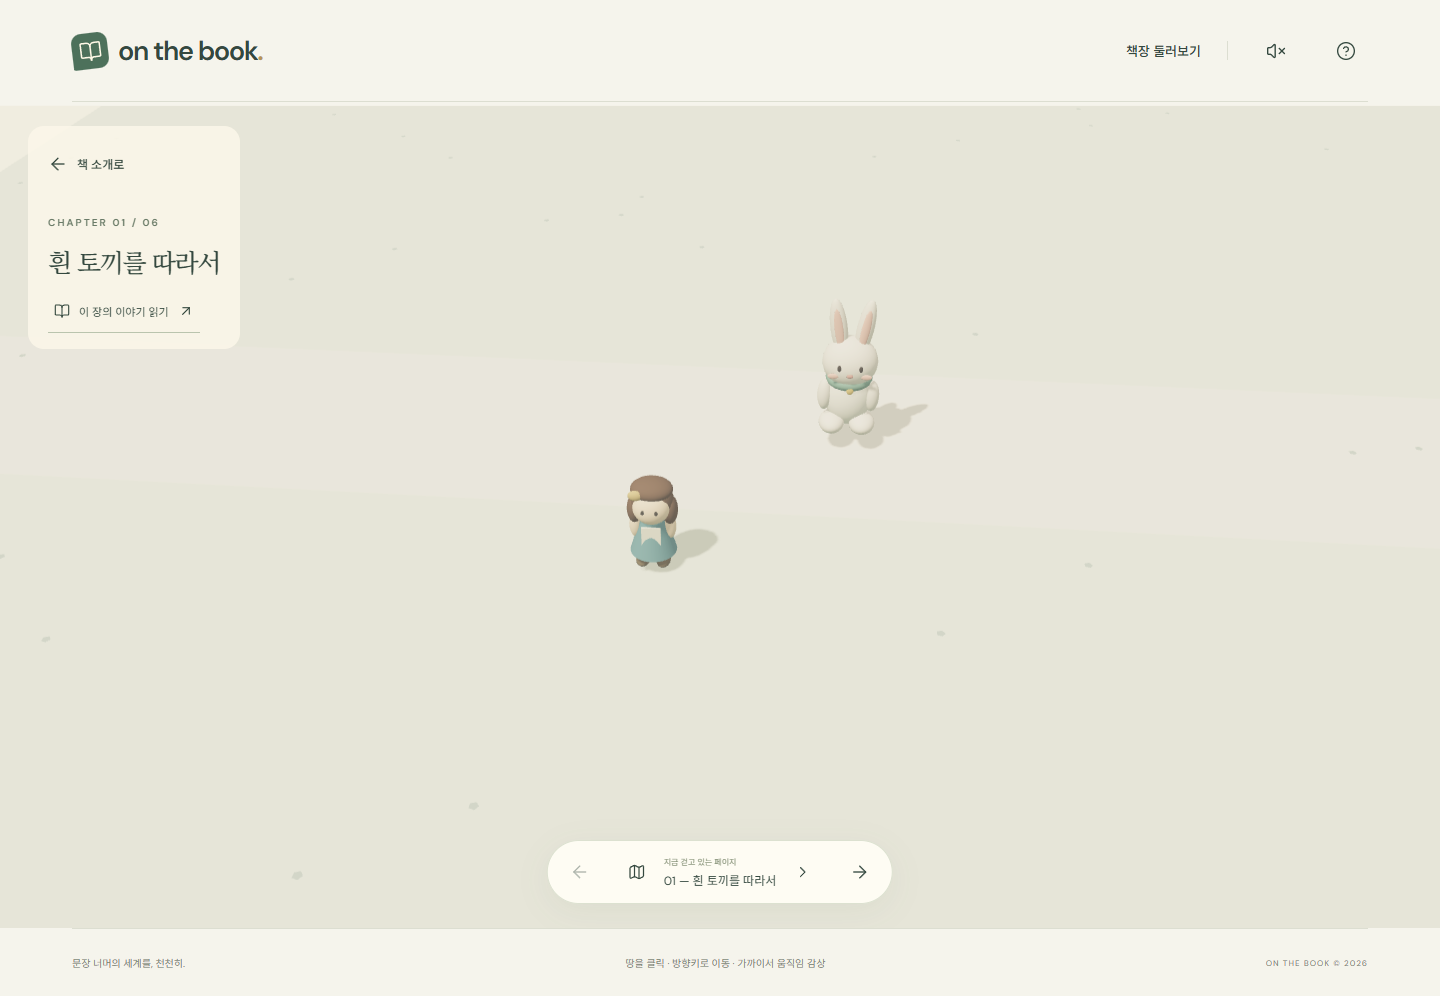
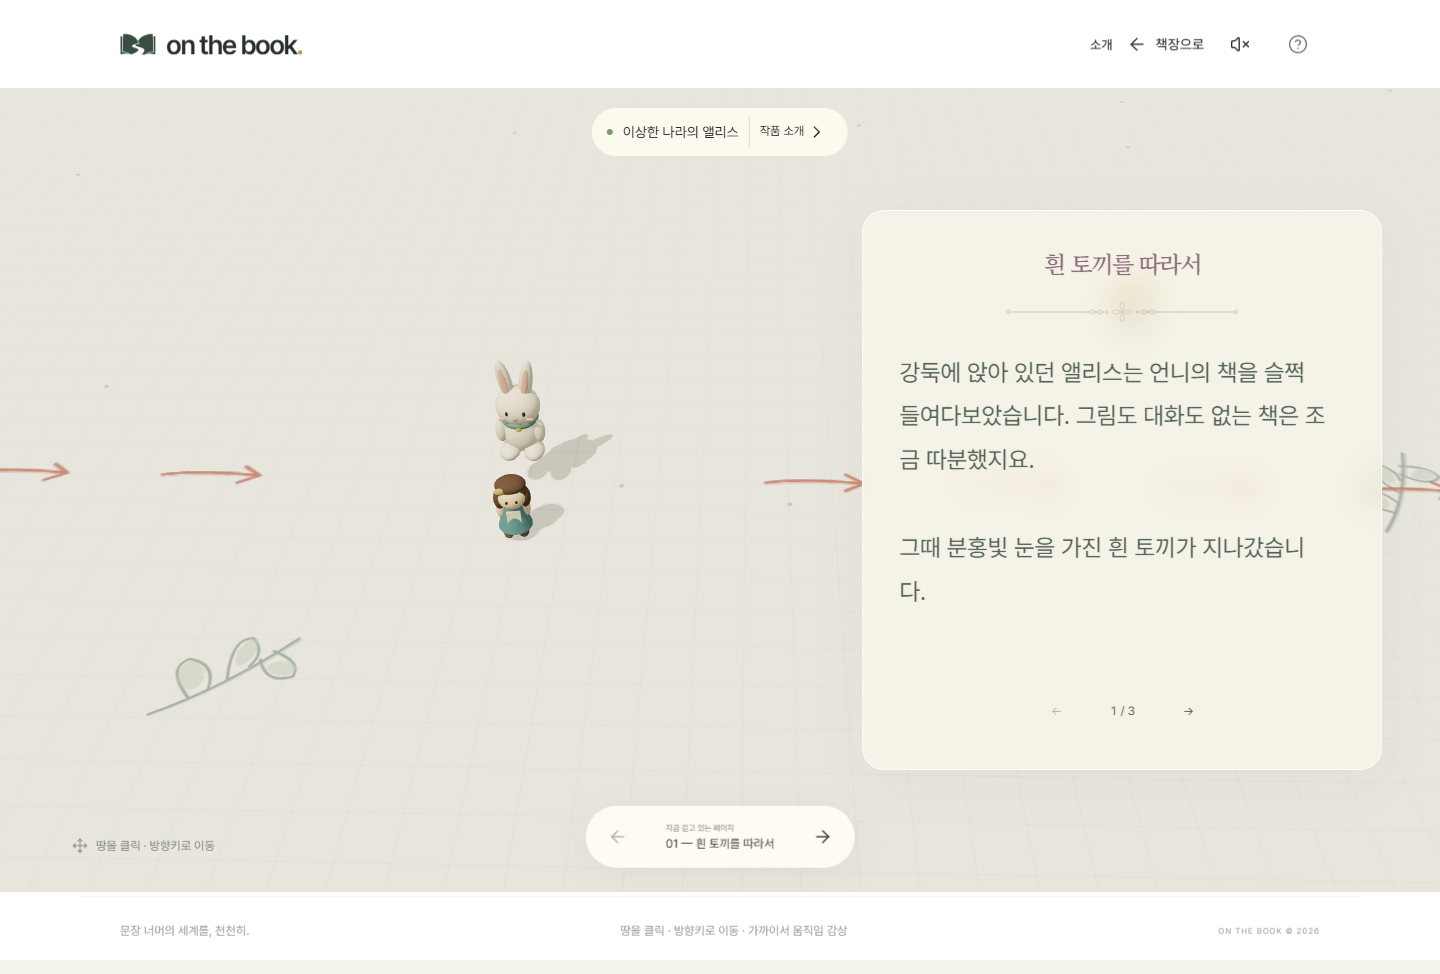
Document the detail pages and refresh the previews
README, the page description and the migration spec now describe the
card → detail → CTA → world flow and the four reader addresses. The
preview capture passes through the book detail, and four screenshots
show both detail pages on desktop and on a phone.

diff --git a/client/index.html b/client/index.html
@@ -4,7 +4,7 @@
     <meta charset="UTF-8" />
     <meta name="viewport" content="width=device-width,initial-scale=1" />
     <meta name="theme-color" content="#ffffff" />
-    <meta name="description" content="마음이 가는 책을 고르고 문장 너머의 세계를 만나보세요. 작품을 탐색하고 표지를 누르면 바로 3D 이야기 속으로 들어가는 On the Book 데모 서재." />
+    <meta name="description" content="마음이 가는 책을 고르고 문장 너머의 세계를 만나보세요. 작품과 장면을 살펴보고 원하는 곳에서 3D 이야기 속으로 들어가는 On the Book 데모 서재." />
     <link rel="icon" href="/brand/book-path-32.png" type="image/png" sizes="32x32" />
     <link rel="icon" href="/brand/book-path-favicon.svg" type="image/svg+xml" />
     <link rel="apple-touch-icon" href="/brand/book-path-180.png" />

diff --git a/README.md b/README.md
@@ -26,11 +26,11 @@ npm start
 
 ## 현재 경험과 관리 기능
 
-- 첫 화면은 상단 검색, 발견·전체 도서·이어 읽기 메뉴, 추천 배너, 도서 책장과 장면별 탐색으로 구성됩니다. [리디 만화](https://ridibooks.com/comics/ebook)의 검색·카테고리·여러 도서 코너와 [밀리의서재](https://www.millie.co.kr/)의 탐색 메뉴를 참고했습니다. 제목·작가 검색, 분류, 제목·출간연도 정렬을 지원하며 도서를 누르면 해당 작품의 3D 공간으로 바로 들어갑니다. 회원가입·로그인·알림 메뉴는 없습니다.
+- 첫 화면은 상단 검색, 발견·전체 도서·이어 읽기 메뉴, 추천 배너, 도서 책장과 장면별 탐색으로 구성됩니다. [리디 만화](https://ridibooks.com/comics/ebook)의 검색·카테고리·여러 도서 코너와 [밀리의서재](https://www.millie.co.kr/)의 탐색 메뉴를 참고했습니다. 제목·작가 검색, 분류, 제목·출간연도 정렬을 지원하며 도서를 누르면 작품 상세 페이지가 열리고, 그곳의 '이야기 속으로 들어가기' 버튼으로 3D 공간에 들어갑니다. 읽던 작품은 마지막에 머문 장면에서 이어 읽을 수 있습니다. 회원가입·로그인·알림 메뉴는 없습니다.
 - 기존 등록 도서만 표시하며 데모용 작품을 추가하지 않습니다. 공개 도서가 늘어나면 목록과 도서 수가 자동으로 확장됩니다. 발견 화면의 빈 도서 자리는 ‘새로운 이야기 준비 중’으로 표시되고 선택할 수 없습니다. 새 작품은 기본적으로 ‘문학’에 분류됩니다.
 - 표지·추천 배너의 표지·장면 썸네일은 이미지 없이 크기와 자리만 확보했습니다. 등록된 표지가 있어도 현재 시안에서는 표시하지 않습니다. 실제 책 정보는 그대로 유지되며 작품 소개 창도 빈 표지를 사용합니다.
-- 장면 목록은 가로로 넘겨 볼 수 있고, 선택한 장면의 3D 공간으로 바로 들어갑니다. 이전·다음 버튼, 터치 스크롤, 목록에 초점을 둔 상태에서 방향키·Home·End를 지원합니다.
-- **작품 소개**에서 원작 정보와 장면 목록을 확인합니다. **책장으로** 돌아오면 검색 조건과 위치가 유지되고 **이어 읽기**에서는 이 브라우저에서 방문한 작품을 볼 수 있습니다. 첫 진입 시 안내창은 자동으로 열리지 않으며 이용 방법 버튼으로 볼 수 있습니다.
+- 장면 목록은 가로로 넘겨 볼 수 있고, 장면을 누르면 첫 문단과 그 장면의 모델을 미리 보여 주는 장면 상세 페이지가 열립니다. '이 장면부터 걷기' 버튼으로 그 장면의 3D 공간에 들어갑니다. 이전·다음 버튼, 터치 스크롤, 목록에 초점을 둔 상태에서 방향키·Home·End를 지원합니다.
+- 작품 상세 페이지에서 원작 정보와 장면 목록을 확인하고, 3D 공간 안에서는 **작품 소개** 창으로 같은 정보를 봅니다. 주소 `?book=<책>`은 작품 상세, `?book=<책>&scene=<장면>`은 장면 상세, `?book=<책>&chapter=<장면>`은 3D 공간입니다. **책장으로** 돌아오면 검색 조건과 위치가 유지되고 **이어 읽기**에서는 이 브라우저에서 방문한 작품을 볼 수 있습니다. 첫 진입 시 안내창은 자동으로 열리지 않으며 이용 방법 버튼으로 볼 수 있습니다.
 - 트레일러는 아래쪽 **온더북 미리보기**에서 직접 열어 재생합니다. 미리보기 이미지는 표시하지 않으며 영상을 닫으면 재생을 멈춥니다.
 - 영상 원본은 `public/trailer.mp4`, 실제 웹 재생본은 `public/trailer-web.mp4`, 재생 전 이미지는 `public/trailer-poster.jpg`입니다. 원본을 교체하면 웹 재생본과 이미지도 함께 갱신해야 합니다.
 - 게임 요소 없이 넓은 공간을 자유롭게 이동합니다. 모델에 접근하면 애니메이션이 반복되고, 범위를 벗어나면 기본 자세로 돌아갑니다. 다시 접근하면 처음부터 재생됩니다.
@@ -42,7 +42,7 @@ npm start
 
 ## 확인 순서
 
-1. 사용자 화면에서 표지를 눌러 작품 속으로 들어간 뒤 땅을 누르거나 방향키로 이동합니다. 휴대폰에서는 방향 버튼도 사용할 수 있습니다.
+1. 사용자 화면에서 표지를 눌러 작품 상세를 열고 '이야기 속으로 들어가기'를 누른 뒤 땅을 누르거나 방향키로 이동합니다. 휴대폰에서는 방향 버튼도 사용할 수 있습니다.
 2. 모델 가까이에서 움직임을 보고, 멀어졌다가 다시 접근합니다. 오른쪽으로 계속 걸으면 다음 챕터로 이어집니다. 지도에서 원하는 챕터로 바로 이동할 수도 있습니다.
 3. 관리자 **챕터와 본문**에서 공간 크기를 조절합니다. **모델 설정**에서 위치와 접근 거리, 애니메이션을 조절하고 미리 봅니다.
 4. **임시 저장** 후 **사용자 화면에 공개**하고 사용자 화면을 새로고침합니다.
